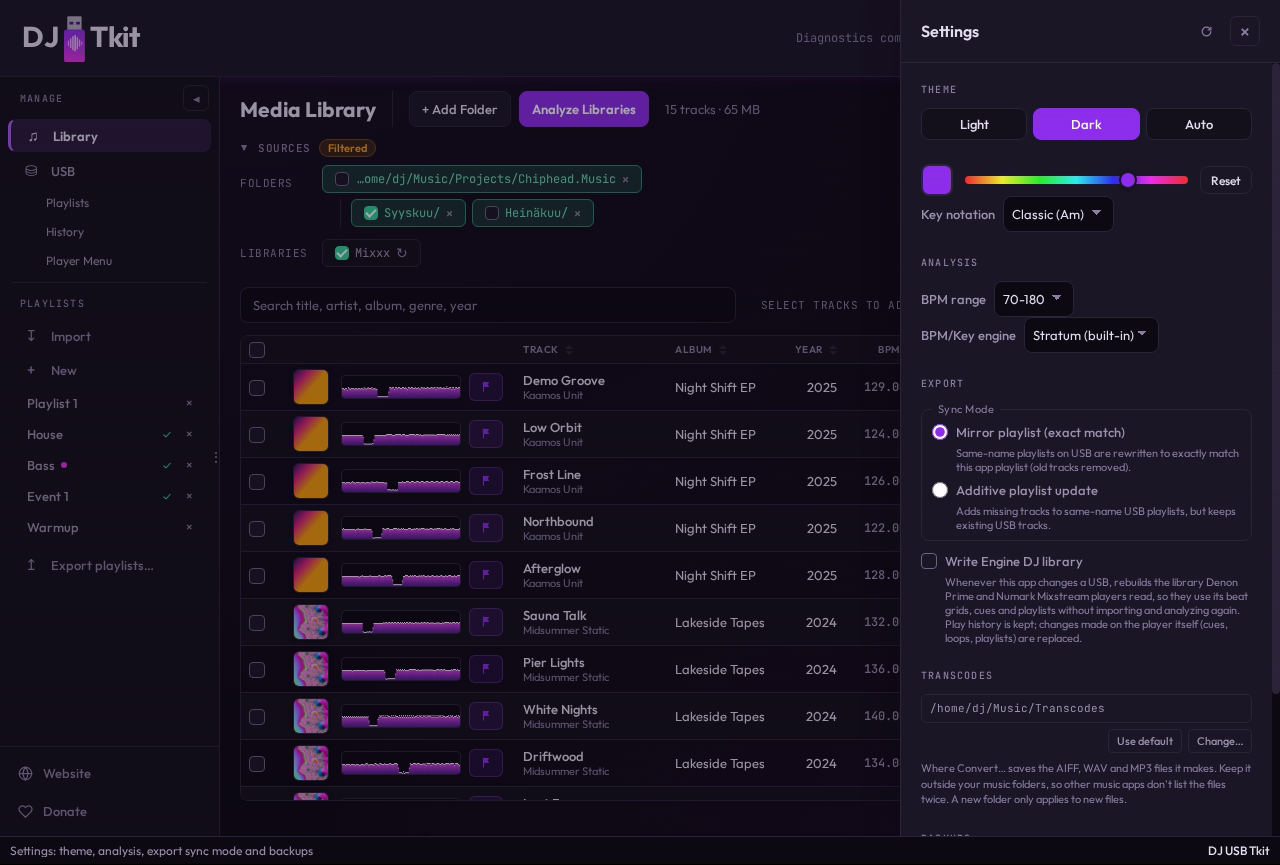
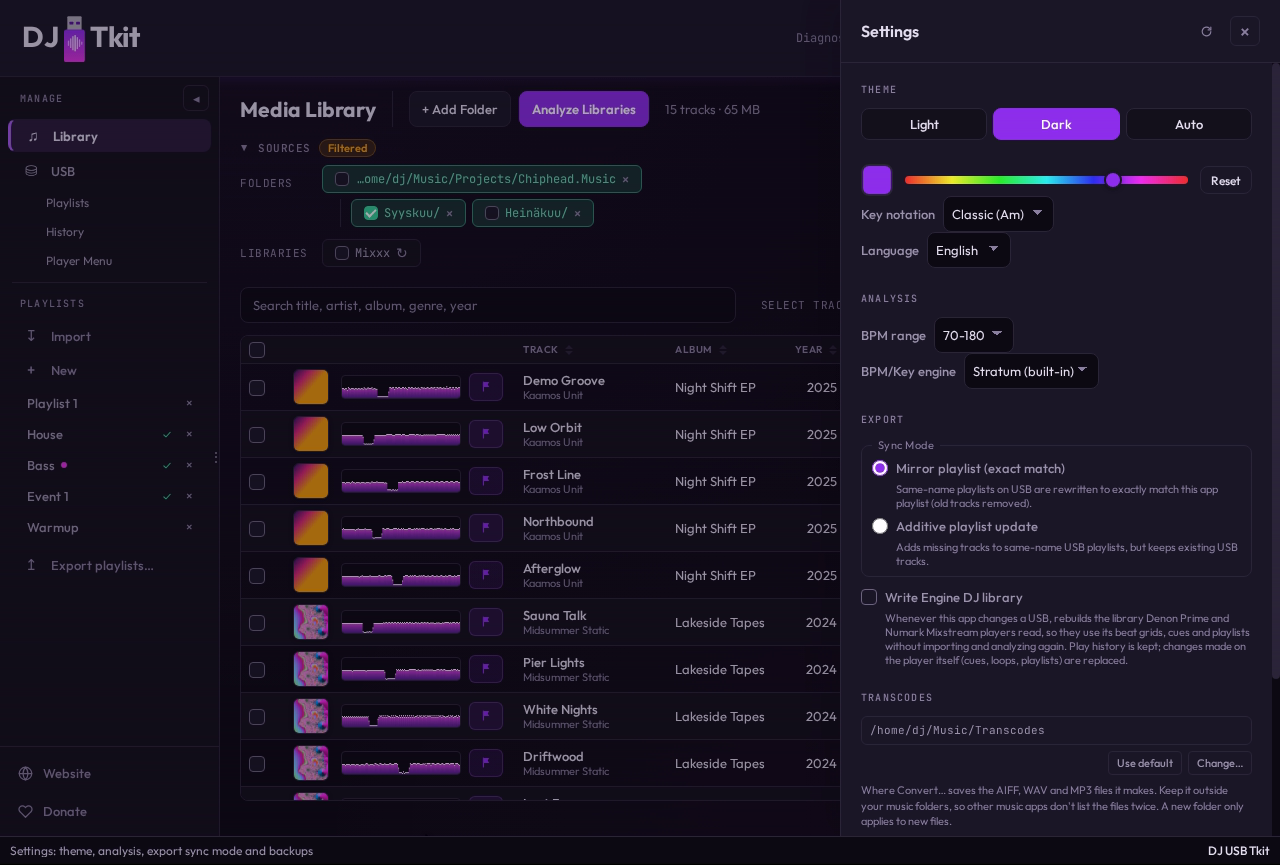
add light theme screenshot

diff --git a/vanilla-ui/scripts/doc-media/page_init.js b/vanilla-ui/scripts/doc-media/page_init.js
@@ -36,12 +36,13 @@
   const defaultColumns = trackColumns.data.layout;
   let columnLayout = defaultColumns;
   // The backend's library sources: the folders (some switched off, some
-  // inside another) and, when shown, an imported Mixxx library switched on
-  // in the Libraries row.
+  // inside another). An imported library shows in the Libraries row switched
+  // off: switched on but not fully analyzed, the footer would count its
+  // tracks without length.
   const librarySources = {
     folders: sourceFolders.map((folder) => ({ ...folder, missing: false, fullyAnalyzed: true })),
     rekordboxDbEnabled: false,
-    mixxxDbEnabled: !!opts.externalLibraries?.mixxx,
+    mixxxDbEnabled: false,
     everConfigured: true,
     analyzeButtonLabel: sourceFolders.length > 1 ? "Analyze Libraries" : "Analyze Library",
     analyzeScanningStatus: "Scanning library files...",
@@ -49,7 +50,7 @@
   };
   const shownRoots = sourceFolders.filter((folder) => folder.enabled).map((folder) => folder.path);
   ls.setItem("djusbtkit.helpSeen", "1");
-  ls.setItem("djusbtkit.theme", "dark");
+  ls.setItem("djusbtkit.theme", opts.theme || "dark");
   ls.setItem("djusbtkit.accentHue", "270");
   ls.setItem("djusbtkit.cueStartOnFirstBeat", "0");
   ls.setItem("djusbtkit.cueQuantize", "1");

diff --git a/README.md b/README.md
@@ -5,7 +5,10 @@ Local-first DJ library manager — scan, analyze and export playlists to USB for
 Prebuilt installers for macOS, Windows, and Linux are on the [Releases](https://github.com/haivala/dj-usb-tkit/releases) page.
 
 <p align="center">
-  <img src="docs/assets/DJ-USB-Tkit.png" alt="DJ USB Tkit screenshot" width="800" />
+  <picture>
+    <source media="(prefers-color-scheme: light)" srcset="docs/assets/DJ-USB-Tkit-light.png" />
+    <img src="docs/assets/DJ-USB-Tkit.png" alt="DJ USB Tkit screenshot" width="800" />
+  </picture>
 </p>
 
 ## Installing a Prebuilt Release

diff --git a/vanilla-ui/README.md b/vanilla-ui/README.md
@@ -132,7 +132,8 @@ message-routing contracts.
 
 The animations (WebP) and screenshots in `docs/assets/` (used by `docs/CUE_EDITOR.md` and
 the top-level README) are recorded from the real frontend build: the three
-`cue-editor-*.webp`, `DJ-USB-Tkit.png` and `cue-editor.png`. Re-record them
+`cue-editor-*.webp`, `DJ-USB-Tkit.png` (and its light-theme twin
+`DJ-USB-Tkit-light.png`) and `cue-editor.png`. Re-record them
 after a UI change:
 
 ```bash
